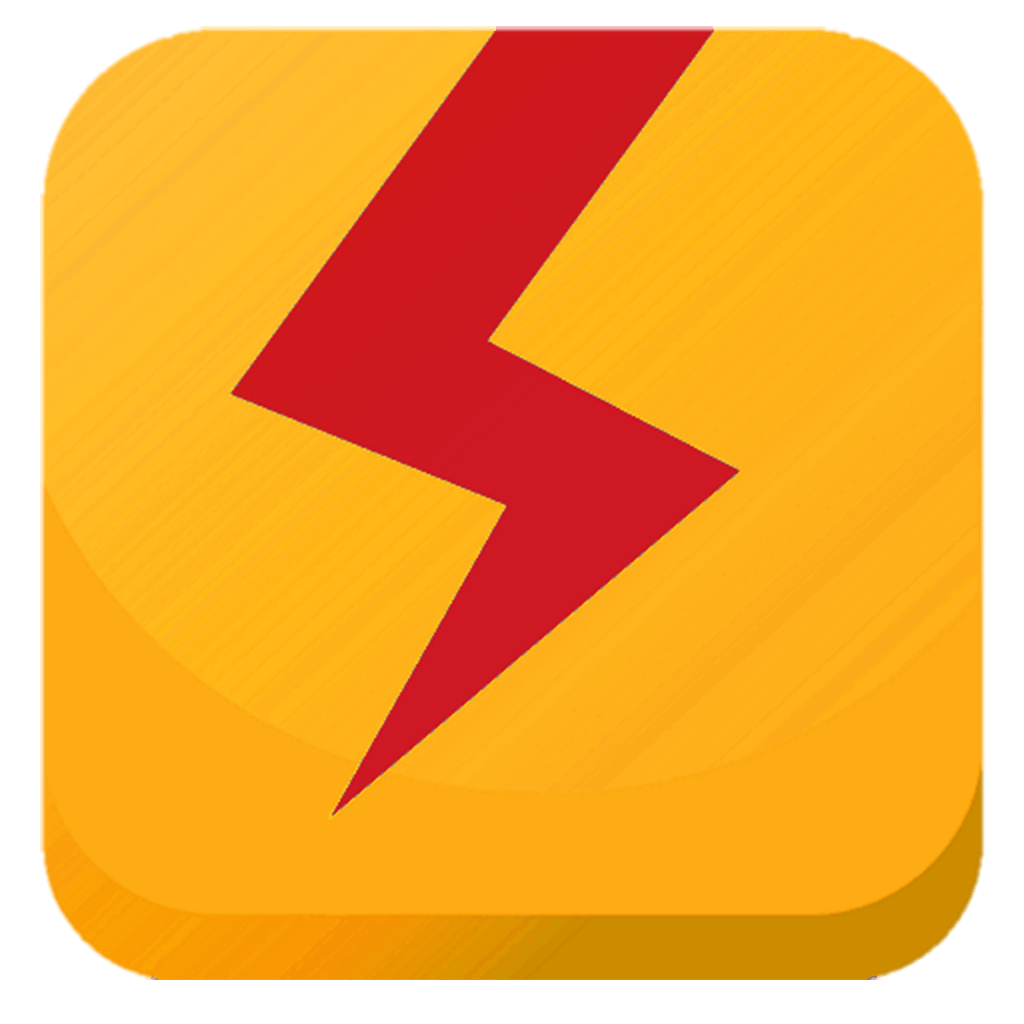
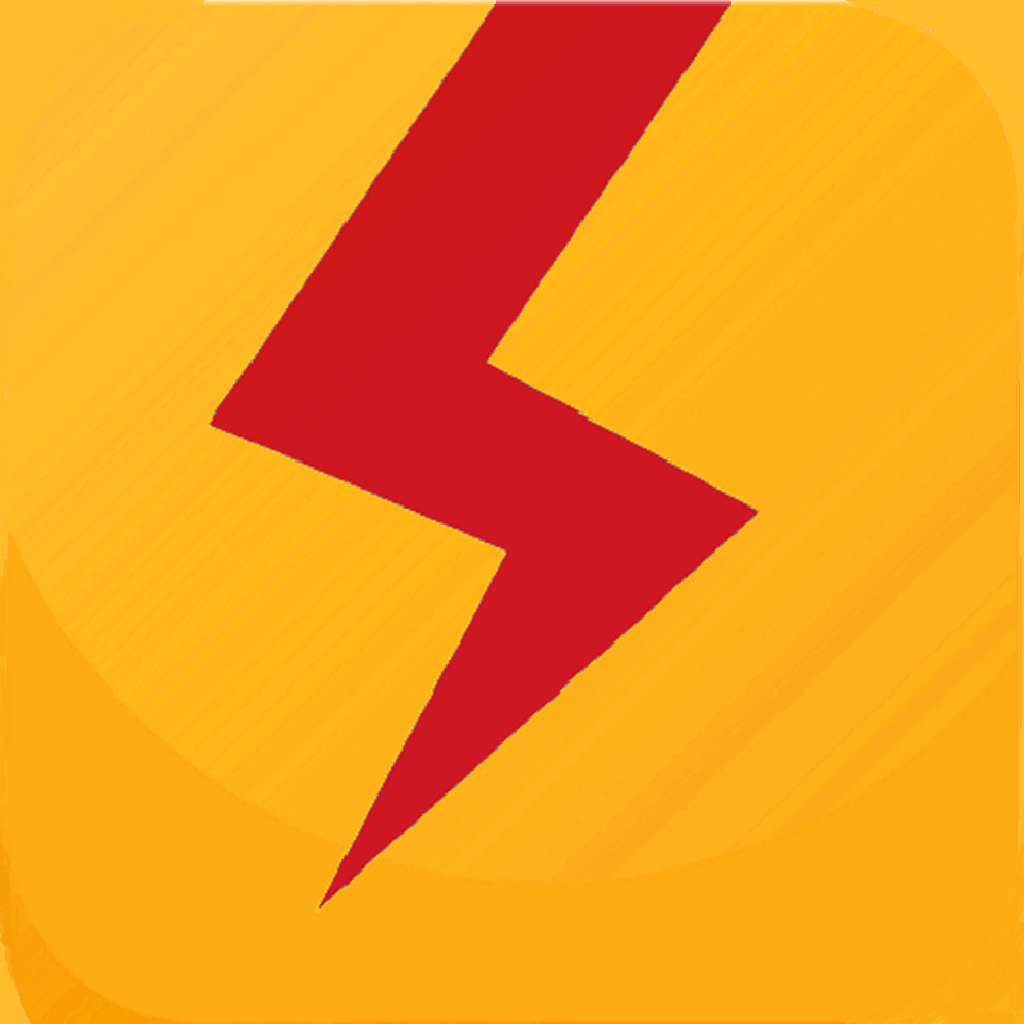
Fixed and Updated things
NEW VERSION 0.9.3
- Fixed Icons for iOS Testflight release
- Fixed logic in Ranker just in case string with only pit notes is passed in (used to crash on export, now fixed)

diff --git a/NRGScoutingApp/Helper Classes/Ranker.cs b/NRGScoutingApp/Helper Classes/Ranker.cs
@@ -414,7 +414,14 @@ namespace NRGScoutingApp {
             } else {
                 tempJSON = new JObject (new JProperty ("Matches"));
             }
-            return (JArray) tempJSON["Matches"];
+            if (tempJSON.ContainsKey("Matches"))
+            {
+                return (JArray)tempJSON["Matches"];
+            }
+            else
+            {
+                return new JArray();
+            }
         }
     }
 }
